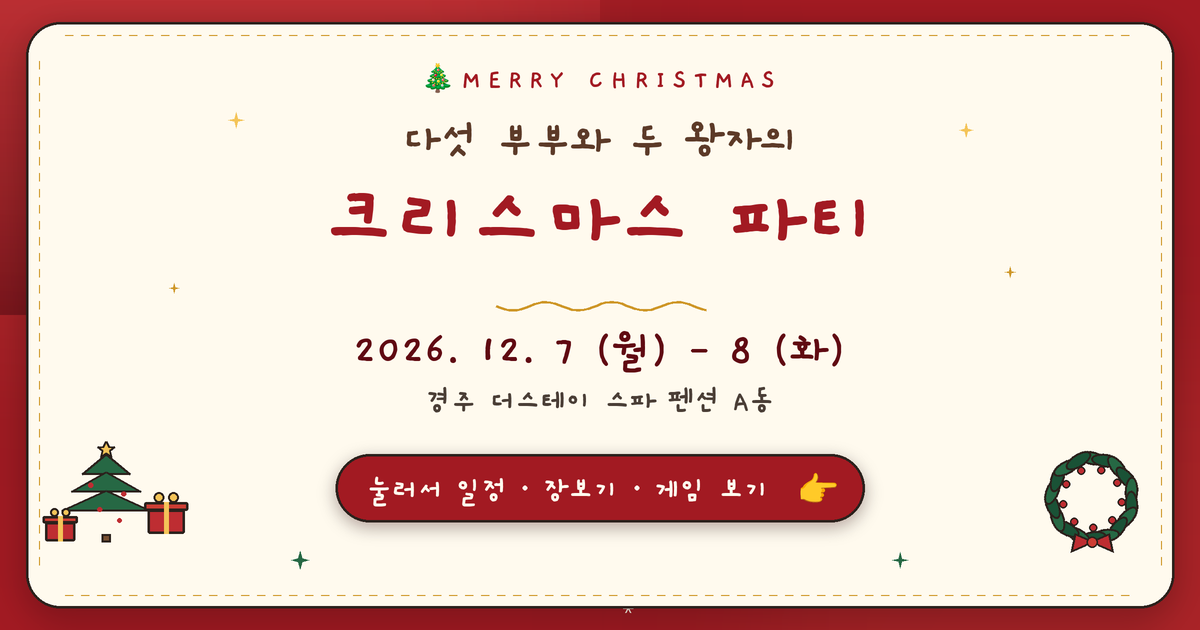
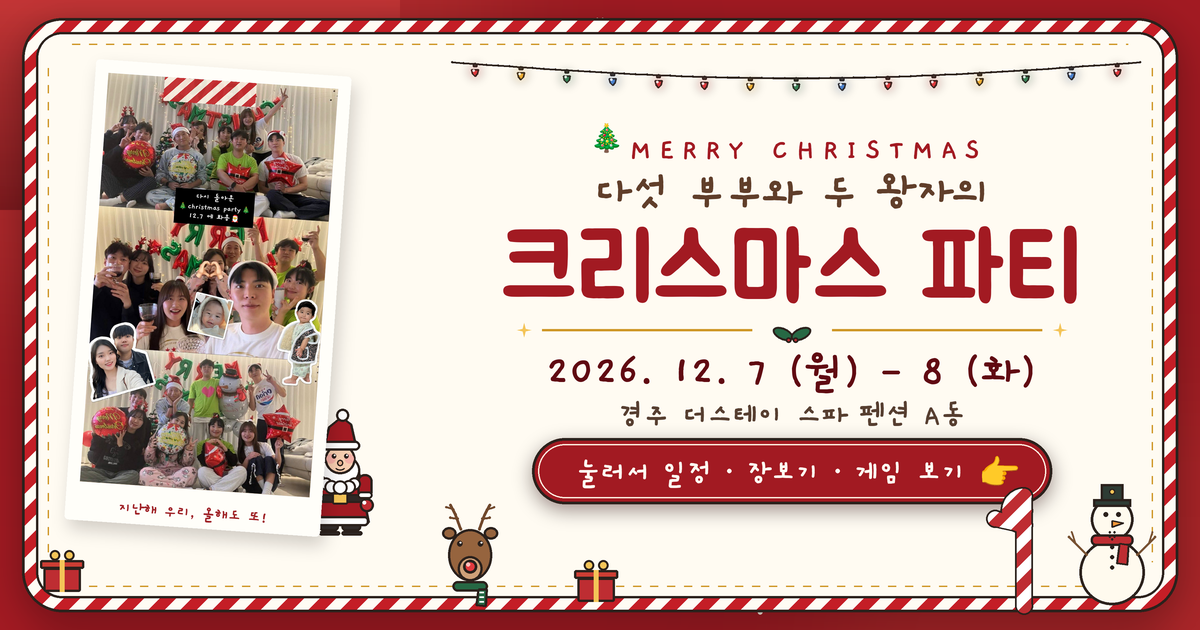
💌 초대장·OG 카드 귀엽게 개편 — 실제 파티 사진 폴라로이드, 캔디 테두리, 산타·루돌프·눈사람 캐릭터

diff --git a/index.html b/index.html
@@ -593,54 +593,90 @@ input.num:focus{outline:2px solid var(--red);outline-offset:1px}
 .inviteOverlay{
   position:fixed;inset:0;z-index:500;display:none;
   align-items:center;justify-content:center;
-  padding:calc(20px + env(safe-area-inset-top)) 18px calc(20px + env(safe-area-inset-bottom));
+  padding:calc(8px + env(safe-area-inset-top)) 12px calc(8px + env(safe-area-inset-bottom));
   background-color:#7C090B;
   background-image:radial-gradient(circle at 50% 50%, rgba(255,255,255,.16) 0 2px, transparent 2px),
-                   radial-gradient(circle at 50% 50%, rgba(255,236,200,.12) 0 1.6px, transparent 1.6px),
-                   linear-gradient(160deg,#B01A22 0%,#8E0A0C 46%,#5C0507 100%);
+                   radial-gradient(circle at 50% 50%, rgba(255,236,200,.14) 0 1.6px, transparent 1.6px),
+                   linear-gradient(160deg,#B61E26 0%,#8E0A0C 48%,#5C0507 100%);
   background-size:34px 34px, 52px 52px, 100% 100%;
 }
 .inviteOverlay.on{display:flex;animation:inviteIn .32s ease-out}
 .inviteOverlay.hide{opacity:0;transition:opacity .32s ease}
 @keyframes inviteIn{from{opacity:0}to{opacity:1}}
 body.invite-open{overflow:hidden}
+
+/* 빨강+흰 사탕줄무늬 테두리 */
 .inviteCard{
-  position:relative;width:100%;max-width:352px;max-height:100%;
-  background:var(--cream);border:3px solid var(--ink);border-radius:26px;
-  padding:24px 20px 20px;text-align:center;
-  box-shadow:0 10px 0 rgba(0,0,0,.28), 0 18px 44px rgba(0,0,0,.36);
+  position:relative;width:100%;max-width:364px;max-height:100%;
+  padding:9px;border:2.5px solid var(--ink);border-radius:28px;
+  background:repeating-linear-gradient(45deg,#C41E26 0 9px,#FFF7EC 9px 18px);
+  box-shadow:0 9px 0 rgba(0,0,0,.28), 0 20px 46px rgba(0,0,0,.42);
   animation:invitePop .46s cubic-bezier(.2,1.5,.4,1);
 }
 @keyframes invitePop{0%{transform:scale(.9) rotate(-1.2deg);opacity:0}100%{transform:scale(1) rotate(0);opacity:1}}
-.inviteCard::before{
-  content:"";position:absolute;inset:7px;border:1.6px dashed rgba(206,150,38,.55);
-  border-radius:19px;pointer-events:none;
+.ic-in{
+  position:relative;display:flex;flex-direction:column;align-items:center;
+  background:var(--cream);border:2px solid var(--ink);border-radius:20px;
+  padding:16px 14px 10px;overflow:hidden;
+}
+.ic-in::before{
+  content:"";position:absolute;inset:6px;border:1.4px dashed rgba(206,150,38,.45);
+  border-radius:15px;pointer-events:none;
+}
+.ic-lights{
+  position:absolute;left:2px;right:2px;top:-13px;width:calc(100% - 4px);
+  pointer-events:none;z-index:3;filter:drop-shadow(0 2px 2px rgba(0,0,0,.18));
 }
 .ic-ribbon{
-  position:absolute;left:50%;top:-15px;transform:translateX(-50%);
+  position:absolute;left:50%;top:-13px;transform:translateX(-50%);
   background:var(--red);color:var(--cream);border:2.5px solid var(--ink);border-radius:999px;
-  padding:2px 14px 3px;font-size:10px;font-weight:700;letter-spacing:.2em;white-space:nowrap;
-  box-shadow:0 3px 0 rgba(0,0,0,.22);
+  padding:1px 13px 2px;font-size:10px;font-weight:700;letter-spacing:.18em;white-space:nowrap;
+  box-shadow:0 3px 0 rgba(0,0,0,.22);z-index:4;
 }
-.ic-art{display:block;width:140px;height:auto;margin:2px auto 2px}
-.ic-kicker{font-size:10.5px;font-weight:700;letter-spacing:.32em;color:var(--red);margin-top:2px}
-.ic-lead{font-size:14.5px;color:#5F4E41;margin-top:8px;line-height:1.35}
-.ic-title{font-size:33px;font-weight:700;color:var(--red);line-height:1.15;margin:1px 0 0;letter-spacing:-.01em}
-.ic-rule{display:flex;align-items:center;gap:8px;margin:11px 4px 3px;color:var(--gold);font-size:11px}
-.ic-rule::before,.ic-rule::after{content:"";flex:1;height:0;border-top:1.6px dashed #e0d0b4}
-.ic-rows{list-style:none;margin:0;padding:0;text-align:left}
-.ic-rows li{display:grid;grid-template-columns:42px 1fr;align-items:center;gap:8px;padding:8px 3px;border-bottom:1.5px dashed #e6dac4}
+/* 폴라로이드 사진 */
+.ic-photo{
+  position:relative;margin:14px auto 8px;padding:5px 5px 17px;
+  background:#fff;border:2px solid var(--ink);border-radius:3px;
+  box-shadow:0 4px 0 rgba(0,0,0,.14), 0 8px 18px rgba(0,0,0,.18);
+  transform:rotate(-2.2deg);
+}
+.ic-photo>img.pic{display:block;width:222px;height:auto;border:1px solid #E4D8C4;border-radius:1px}
+.ic-photo .ic-tape{
+  position:absolute;left:50%;top:-10px;width:74px;height:19px;margin-left:-37px;
+  transform:rotate(-7deg);
+  background:repeating-linear-gradient(45deg,rgba(196,30,38,.92) 0 7px,rgba(255,247,236,.92) 7px 14px);
+  border:1px solid rgba(27,27,27,.35);border-radius:2px;
+  box-shadow:0 1px 2px rgba(0,0,0,.18);
+}
+.ic-santa{position:absolute;right:-27px;bottom:-16px;width:56px;filter:drop-shadow(0 2px 3px rgba(0,0,0,.22))}
+.ic-holly{position:absolute;left:-17px;top:-13px;width:34px;transform:rotate(-14deg)}
+/* 글자 */
+.ic-kicker{font-size:10.5px;font-weight:700;letter-spacing:.3em;color:var(--red);margin-top:2px}
+.ic-lead{font-size:15px;color:#5F4E41;margin-top:5px;line-height:1.25}
+.ic-title{font-size:31px;font-weight:700;color:var(--red);line-height:1.12;margin:0;letter-spacing:0}
+.ic-rule{display:flex;align-items:center;gap:7px;margin:7px 2px 1px;width:100%;color:var(--gold);font-size:10px}
+.ic-rule::before,.ic-rule::after{content:"";flex:1;height:0;border-top:1.5px dashed #E4D3B4}
+.ic-rule img{width:30px;height:auto;opacity:.95}
+.ic-rows{list-style:none;margin:0;padding:0;text-align:left;width:100%}
+.ic-rows li{display:grid;grid-template-columns:40px 1fr;align-items:center;gap:6px;padding:5px 2px;border-bottom:1.5px dashed #E8DCC6}
 .ic-rows li:last-child{border-bottom:0}
 .ic-k{color:var(--red);font-size:12.5px;font-weight:700;letter-spacing:.04em}
-.ic-rows b{font-size:16px;font-weight:700;line-height:1.3}
+.ic-rows b{font-size:16px;font-weight:700;line-height:1.25}
 .ic-go{
-  width:100%;margin-top:13px;border:3px solid var(--ink);border-radius:16px;
-  background:var(--red);color:#fff;font-size:18.5px;font-weight:700;line-height:1;padding:8px 10px 23px;
-  cursor:pointer;box-shadow:0 5px 0 rgba(0,0,0,.26);
+  width:100%;margin-top:9px;border:2.5px solid var(--ink);border-radius:15px;
+  background:var(--red);color:#fff;font-size:19px;font-weight:700;line-height:1.15;padding:8px 8px 10px;
+  cursor:pointer;box-shadow:0 4px 0 rgba(0,0,0,.26);
   transition:transform .08s, box-shadow .08s;
 }
-.ic-go:active{transform:translateY(3px);box-shadow:0 2px 0 rgba(0,0,0,.26)}
-.ic-foot{font-size:11.5px;color:#8a8482;margin-top:11px;line-height:1.4}
+.ic-go:active{transform:translateY(3px);box-shadow:0 1px 0 rgba(0,0,0,.26)}
+.ic-foot{font-size:11.5px;color:#8a8482;margin-top:7px;line-height:1.35}
+/* 카드 아래 빼꼼 캐릭터 */
+.ic-buddy{position:absolute;pointer-events:none;filter:drop-shadow(0 2px 2px rgba(0,0,0,.2));z-index:2}
+.ic-buddy.rud{left:-14px;bottom:-16px;width:52px;transform:rotate(-8deg)}
+.ic-buddy.snow{right:-12px;bottom:-18px;width:56px}
+.ic-cane{position:absolute;pointer-events:none;width:30px;z-index:2;filter:drop-shadow(0 2px 2px rgba(0,0,0,.18))}
+.ic-cane.cl{left:2px;top:34px;transform:rotate(-12deg);opacity:.95}
+.ic-cane.cr{right:2px;top:34px;transform:rotate(12deg) scaleX(-1);opacity:.95}
 .inviteLink{
   margin-left:auto;display:inline-flex;align-items:center;gap:3px;cursor:pointer;
   border:2px solid var(--ink);border-radius:999px;background:#fff;color:var(--ink);
@@ -656,17 +692,20 @@ body.invite-open{overflow:hidden}
   .tval{font-size:34px;min-width:92px}
   .tab{font-size:11.5px}
   .tab .te{font-size:17px}
-  .inviteCard{padding:22px 17px 15px}
-  .ic-art{width:124px}
-  .ic-title{font-size:29px}
+  .ic-title{font-size:28px}
   .ic-rows b{font-size:15px}
+  .ic-photo>img.pic{width:204px}
 }
-@media (max-height:700px){
-  .ic-art{width:104px}
+@media (max-height:780px){
+  .ic-photo{margin-top:10px;padding-bottom:13px}
+  .ic-photo>img.pic{width:186px}
   .ic-title{font-size:27px}
-  .ic-rows li{padding:5px 3px}
-  .ic-go{margin-top:10px;font-size:17px;padding:6px 10px 21px}
-  .ic-foot{margin-top:8px}
+  .ic-lead{font-size:14px}
+  .ic-rows li{padding:4px 2px}
+  .ic-rows b{font-size:15px}
+  .ic-go{font-size:17px;margin-top:7px;padding:7px 8px 9px}
+  .ic-foot{margin-top:5px;font-size:11px}
+  .ic-buddy{width:46px}
 }
 </style>
 </head>
@@ -678,47 +717,31 @@ body.invite-open{overflow:hidden}
 <!-- ══════════ 💌 크리스마스 초대장 카드 ══════════ -->
 <div class="inviteOverlay" id="inviteOverlay" role="dialog" aria-modal="true" aria-labelledby="inviteTitle" aria-hidden="true">
   <div class="inviteCard" id="inviteCard">
-    <div class="ic-ribbon">YOU'RE INVITED</div>
-    <svg class="ic-art" viewBox="0 0 140 104" aria-hidden="true">
-      <!-- 반짝이 -->
-      <path d="M20 20 L22 27 L29 29 L22 31 L20 38 L18 31 L11 29 L18 27 Z" fill="#E8B23A" stroke="#1B1B1B" stroke-width="1.6" stroke-linejoin="round"/>
-      <path d="M120 30 L121.5 35 L126.5 36.5 L121.5 38 L120 43 L118.5 38 L113.5 36.5 L118.5 35 Z" fill="#E8B23A" stroke="#1B1B1B" stroke-width="1.4" stroke-linejoin="round"/>
-      <path d="M34 52 L35 56 L39 57 L35 58 L34 62 L33 58 L29 57 L33 56 Z" fill="#F0D264"/>
-      <path d="M107 58 L108 62 L112 63 L108 64 L107 68 L106 64 L102 63 L106 62 Z" fill="#F0D264"/>
-      <!-- 나무 -->
-      <polygon points="70,44 95,78 45,78" fill="#1E7B3C" stroke="#1B1B1B" stroke-width="3" stroke-linejoin="round"/>
-      <polygon points="70,32 89,62 51,62" fill="#1E7B3C" stroke="#1B1B1B" stroke-width="3" stroke-linejoin="round"/>
-      <polygon points="70,18 81,42 59,42" fill="#1E7B3C" stroke="#1B1B1B" stroke-width="3" stroke-linejoin="round"/>
-      <rect x="64" y="78" width="12" height="12" rx="2" fill="#8B5A2B" stroke="#1B1B1B" stroke-width="2.6"/>
-      <polygon points="70,3 72.6,9.6 79.6,10.2 74.3,14.3 75.9,21.2 70,17.4 64.1,21.2 65.7,14.3 60.4,10.2 67.4,9.6" fill="#E8B23A" stroke="#1B1B1B" stroke-width="2" stroke-linejoin="round"/>
-      <circle cx="62" cy="39" r="2.8" fill="#E8B23A" stroke="#1B1B1B" stroke-width="1.4"/>
-      <circle cx="78" cy="50" r="2.8" fill="#A60C0E" stroke="#1B1B1B" stroke-width="1.4"/>
-      <circle cx="63" cy="64" r="2.6" fill="#FBF3E4" stroke="#1B1B1B" stroke-width="1.4"/>
-      <circle cx="83" cy="70" r="2.6" fill="#E8B23A" stroke="#1B1B1B" stroke-width="1.4"/>
-      <!-- 선물 -->
-      <rect x="33" y="80" width="22" height="14" rx="2.5" fill="#A60C0E" stroke="#1B1B1B" stroke-width="2.4"/>
-      <path d="M44 80v14" stroke="#E8B23A" stroke-width="3.4"/>
-      <circle cx="40" cy="77" r="3.4" fill="#E8B23A" stroke="#1B1B1B" stroke-width="1.5"/>
-      <circle cx="48" cy="77" r="3.4" fill="#E8B23A" stroke="#1B1B1B" stroke-width="1.5"/>
-      <rect x="97" y="83" width="18" height="11" rx="2.5" fill="#E8B23A" stroke="#1B1B1B" stroke-width="2.4"/>
-      <path d="M106 83v11" stroke="#A60C0E" stroke-width="3"/>
-      <circle cx="102" cy="80.5" r="2.9" fill="#A60C0E" stroke="#1B1B1B" stroke-width="1.4"/>
-      <circle cx="110" cy="80.5" r="2.9" fill="#A60C0E" stroke="#1B1B1B" stroke-width="1.4"/>
-      <!-- 눈 -->
-      <path d="M28 92h8M32 88v8" stroke="#fff" stroke-width="2.2" stroke-linecap="round"/>
-      <path d="M114 20h7M117.5 16.5v7" stroke="#fff" stroke-width="2" stroke-linecap="round"/>
-    </svg>
-    <div class="ic-kicker">MERRY CHRISTMAS</div>
-    <div class="ic-lead">다섯 부부와 두 왕자의</div>
-    <h2 class="ic-title" id="inviteTitle">크리스마스 파티</h2>
-    <div class="ic-rule"><span>✦</span></div>
-    <ul class="ic-rows">
-      <li><span class="ic-k">일시</span><b>12.7(월) – 12.8(화)</b></li>
-      <li><span class="ic-k">장소</span><b>경주 더스테이 스파 펜션 A동</b></li>
-      <li><span class="ic-k">함께</span><b>다섯 부부 &amp; 왕자 둘</b></li>
-    </ul>
-    <button class="ic-go" id="inviteEnter" type="button">🎁 파티 입장하기</button>
-    <div class="ic-foot">12월 7일 (월) 19:00 시작 · 1박 2일</div>
+    <img class="ic-lights" src="art/lights.png" alt="" aria-hidden="true">
+    <div class="ic-in">
+      <div class="ic-ribbon">YOU'RE INVITED</div>
+      <div class="ic-photo">
+        <span class="ic-tape" aria-hidden="true"></span>
+        <img class="ic-holly" src="art/holly.png" alt="" aria-hidden="true">
+        <img class="pic" src="party-photo.jpg" alt="지난 크리스마스 파티 사진">
+        <img class="ic-santa" src="art/santa.png" alt="" aria-hidden="true">
+      </div>
+      <div class="ic-kicker">MERRY CHRISTMAS</div>
+      <div class="ic-lead">다섯 부부와 두 왕자의</div>
+      <h2 class="ic-title" id="inviteTitle">크리스마스 파티</h2>
+      <div class="ic-rule"><img src="art/holly.png" alt="" aria-hidden="true"></div>
+      <ul class="ic-rows">
+        <li><span class="ic-k">일시</span><b>12.7(월) – 12.8(화)</b></li>
+        <li><span class="ic-k">장소</span><b>경주 더스테이 스파 펜션 A동</b></li>
+        <li><span class="ic-k">함께</span><b>다섯 부부 &amp; 왕자 둘 👑</b></li>
+      </ul>
+      <button class="ic-go" id="inviteEnter" type="button">🎁 파티 입장하기</button>
+      <div class="ic-foot">12월 7일 (월) 19:00 시작 · 1박 2일</div>
+    </div>
+    <img class="ic-buddy rud" src="art/rudolph.png" alt="" aria-hidden="true">
+    <img class="ic-buddy snow" src="art/snowman.png" alt="" aria-hidden="true">
+    <img class="ic-cane cl" src="art/candy.png" alt="" aria-hidden="true">
+    <img class="ic-cane cr" src="art/candy.png" alt="" aria-hidden="true">
   </div>
 </div>
 
